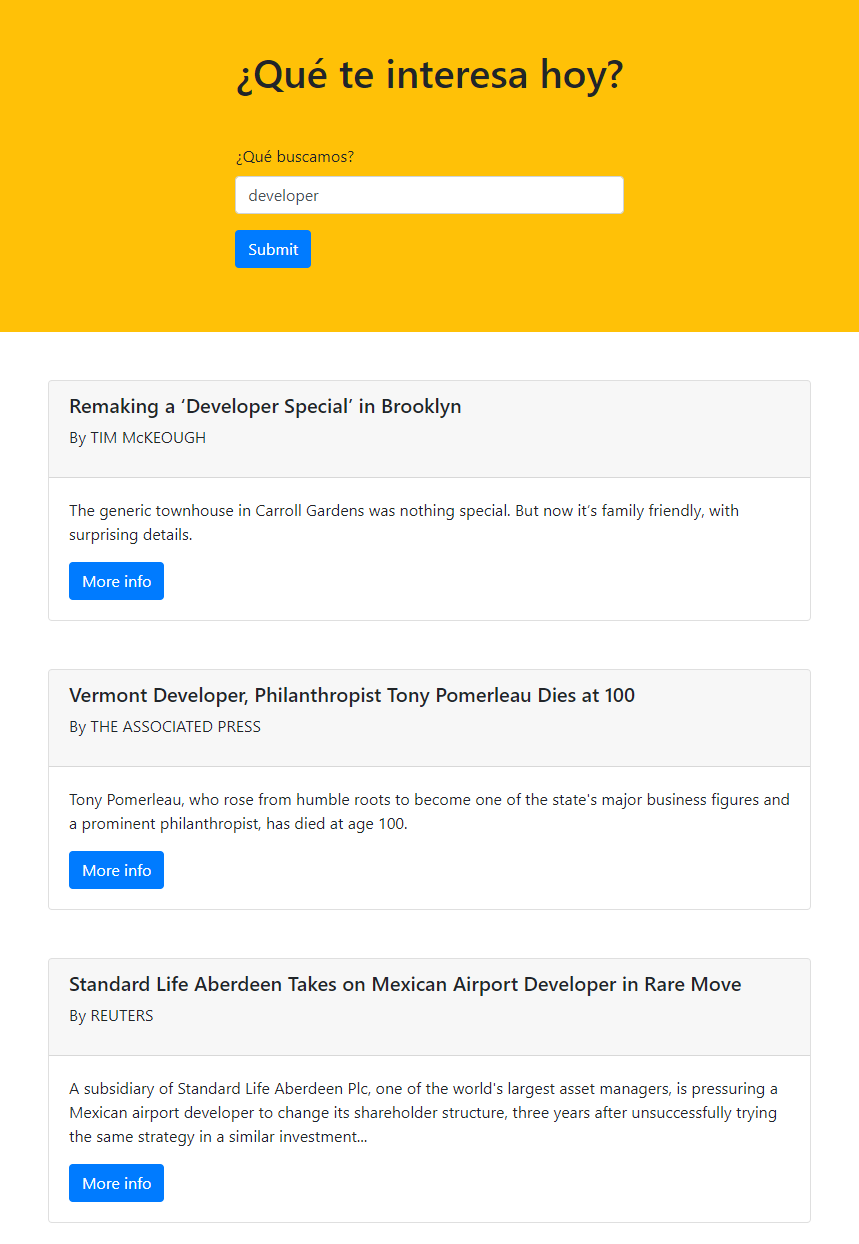
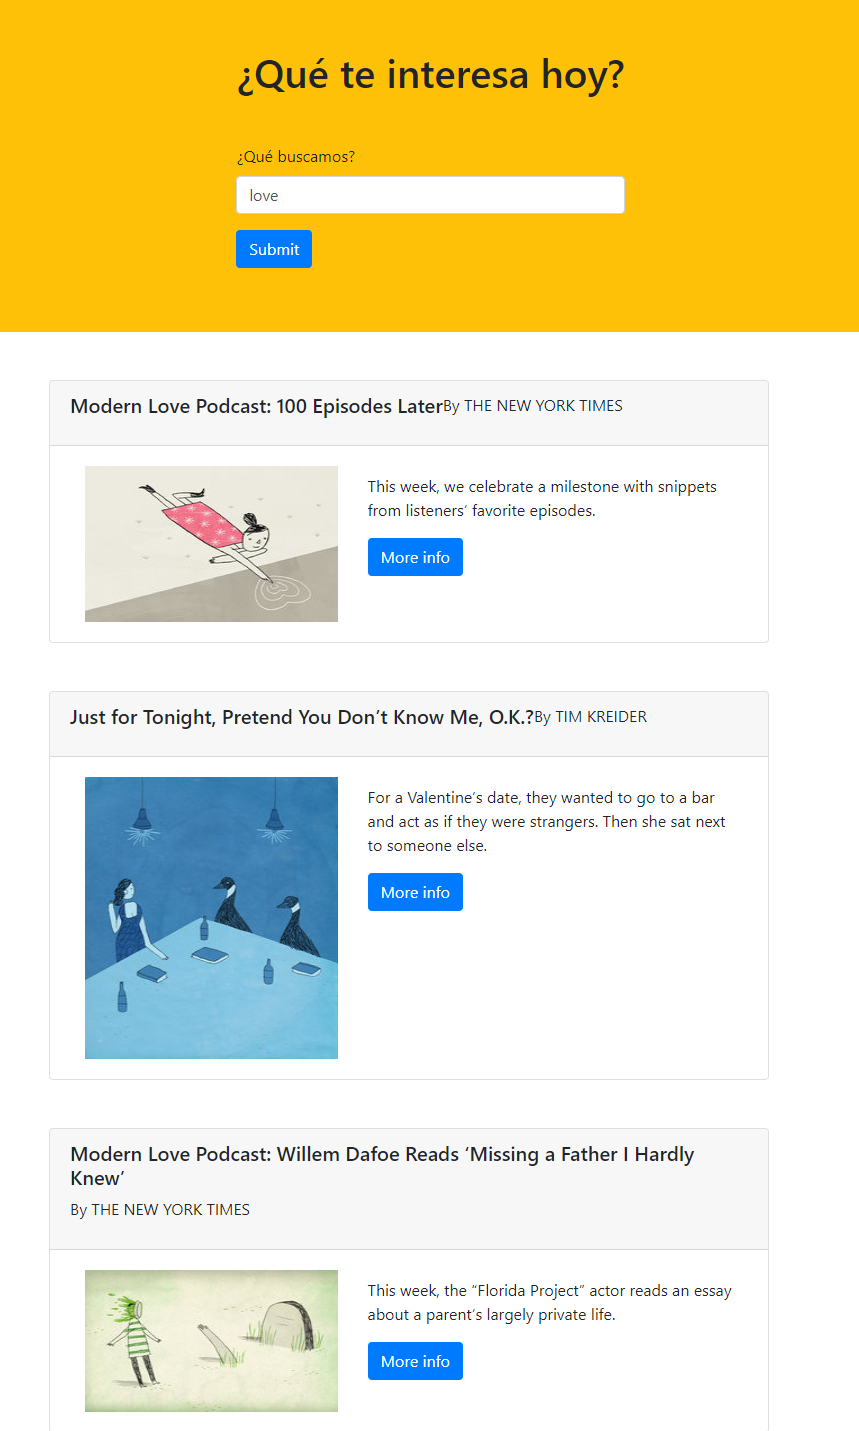
Modifica estilos desktop

Changed region(s): [[0.0, 0.0305, 1.0, 1.0], [0.7264, 0.6415, 0.908, 0.672]]

diff --git a/public/js/app.js b/public/js/app.js
@@ -36,16 +36,18 @@ function addNews() {
     const webUrl = element.web_url;
     
     responseContainer.innerHTML += `
-    <div class="card m-5 container">
-      <div class="card-header row">
-        <h5>${title}</h5>
-        <p class"font-weight-light">${byLine}</p>
-      </div>
-      <div class="card-body row">
-        <img class="rounded img-fluid col-5" src="https://www.nytimes.com/${image}" alt="image">
-        <div class="col-7">
-          <p class="card-text mt-2">${snippet}</p>
-          <a href="${webUrl}" target="_blank" class="btn btn-primary">More info</a>
+    <div class="col-12 col-sm-12 col-md-6 my-3">
+      <div class="card">
+        <div class="card-header">
+          <h5>${title}</h5>
+          <p class class="font-weight-light">${byLine}</p>
+        </div>
+        <div class="card-body row">
+          <img class="rounded img-fluid col-12 col-sm-5" src="https://www.nytimes.com/${image}" alt="image">
+          <div class="col-12 col-sm-7">
+            <p class="card-text mt-2">${snippet}</p>
+            <a href="${webUrl}" target="_blank" class="btn btn-primary">More info</a>
+          </div>
         </div>
       </div>
     </div>

diff --git a/public/index.html b/public/index.html
@@ -8,7 +8,7 @@
     <link rel="stylesheet" href="https://maxcdn.bootstrapcdn.com/bootstrap/4.0.0/css/bootstrap.min.css" integrity="sha384-Gn5384xqQ1aoWXA+058RXPxPg6fy4IWvTNh0E263XmFcJlSAwiGgFAW/dAiS6JXm" crossorigin="anonymous">
     <link rel="stylesheet" href="css/main.css">
   </head>
-  <body class="">
+  <body>
     <header class="masthead bg-warning d-flex justify-content-center">
       <div class="mx-5">
         <h1 class="text-center my-5">¿Qué te interesa hoy?</h1>
@@ -21,9 +21,10 @@
         </div>
       </div>
     </header>
-
-    <div id="reponse-container">
-    </div>
+    <main class="container">
+      <div id="reponse-container" class="row">
+      </div>
+    </main>
 
     <script src="https://code.jquery.com/jquery-3.2.1.slim.min.js" integrity="sha384-KJ3o2DKtIkvYIK3UENzmM7KCkRr/rE9/Qpg6aAZGJwFDMVNA/GpGFF93hXpG5KkN" crossorigin="anonymous"></script>
     <script src="https://cdnjs.cloudflare.com/ajax/libs/popper.js/1.12.9/umd/popper.min.js" integrity="sha384-ApNbgh9B+Y1QKtv3Rn7W3mgPxhU9K/ScQsAP7hUibX39j7fakFPskvXusvfa0b4Q" crossorigin="anonymous"></script>
